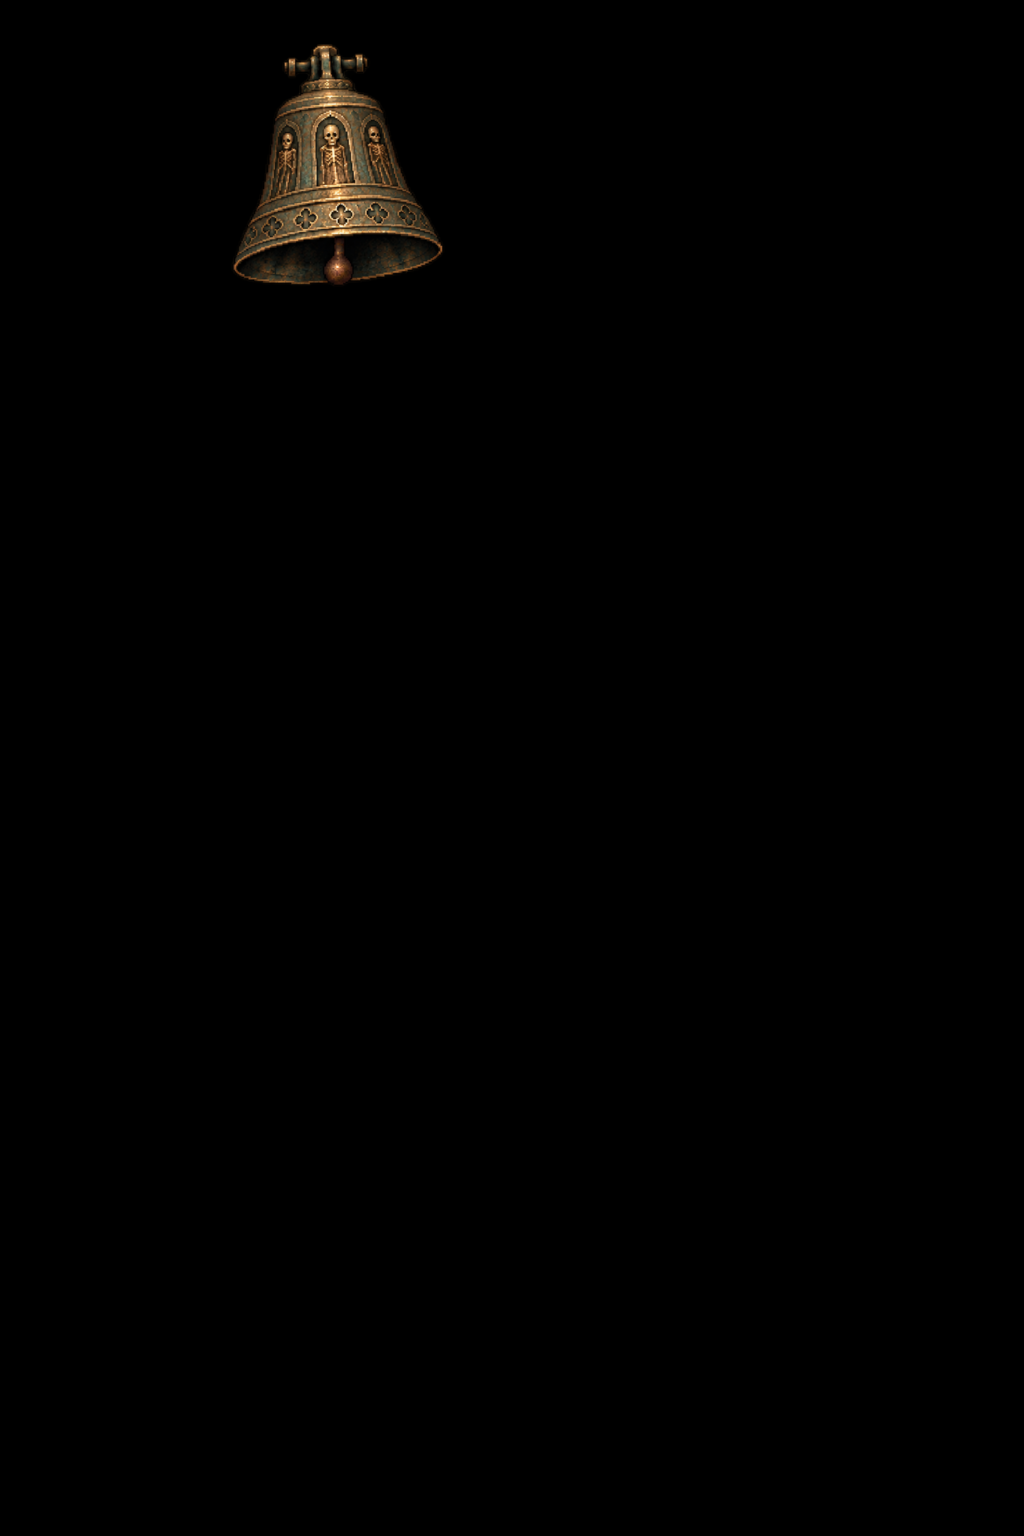
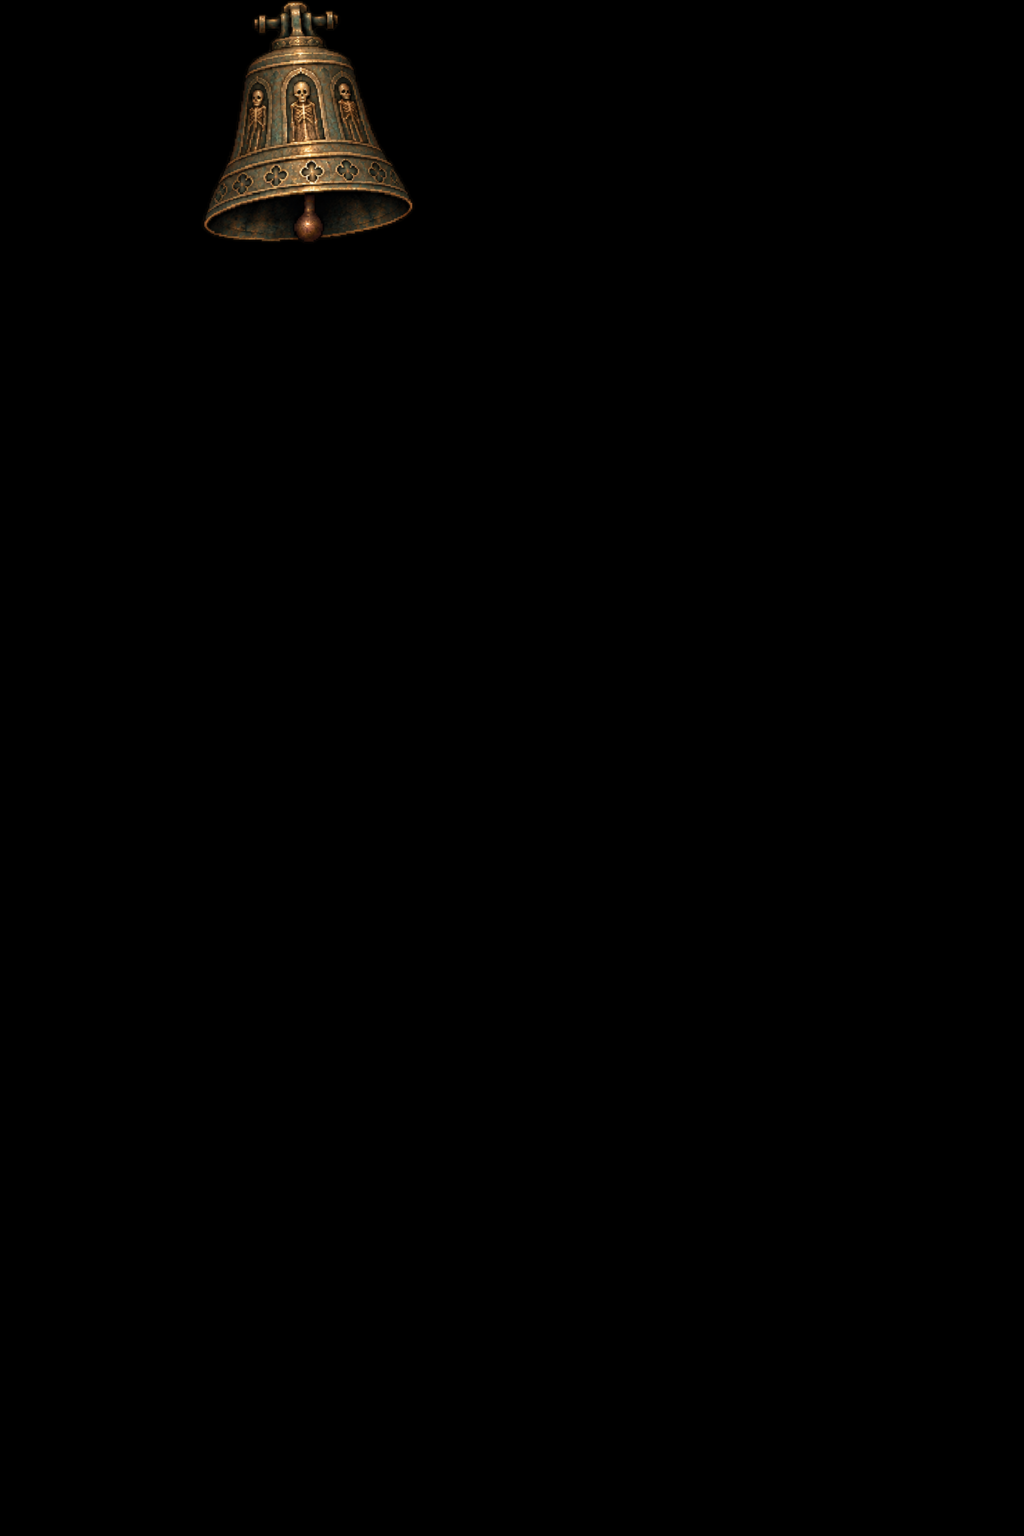
Slide the bell back left, and hang it off the top of the frame
Two placement calls I left on the reader that were mine to make.

**Left, as far as a bell that swings can go.** `at` 0.317 → 0.288. The family
is registered on the bar, so it sweeps 143px where the still bell occupies 98,
and a 390x844 phone only sees the scene from x 62: the sweep now starts at 66.
That is 21px right of the portrait's old stance rather than 35, and the rest
of the distance is the swing's, not a preference — placed where the portrait
hung, the far frame's skirt leaves the screen.

**Up, so it stops floating.** `top` 0.028 → 0. Nothing is painted above the
yoke, so a bell with sky over it hangs from nothing; seated flush, its hanger
runs off the top edge and reads as held by something the frame does not show.
A beam or a chain is still the real answer and still a plate nobody has
painted, but this is a placement solving it rather than a brush.

RING follows the bell, `{ 0.317, 0.16 }` → `{ 0.286, 0.125 }`, still on the
skirt. The brief and POLISH_PROGRESS.md carry the new numbers.

Gates: typecheck and build clean, 638 unit, 427 browser at 390x844,
`npm run sheet && npm run art` still a no-op on a clean tree.

Claude-Session: https://claude.ai/code/session_01HZF17siG5dbjtU4BF6Ch12

Changed region(s): [[0.1875, 0.0, 0.4375, 0.1875]]

diff --git a/src/content/rooms.ts b/src/content/rooms.ts
@@ -315,7 +315,7 @@ export const ROOM_TEMPLATES: Readonly<Record<string, RoomTemplate>> = {
       // that turns about its bar sweeps wider than the bell is: it is seated to
       // keep all five plates on a 320px screen, which moved it right and up.
       // `tools/sheet.mjs` prints the box these two numbers are read off.
-      { id: 'reliquary-bell', art: 'bell', at: { x: 0.317, y: 0.16 }, describe: 'Ring the ritual bell' },
+      { id: 'reliquary-bell', art: 'bell', at: { x: 0.286, y: 0.125 }, describe: 'Ring the ritual bell' },
       {
         id: 'reliquary-brazier',
         art: 'brazier',

diff --git a/POLISH_PROGRESS.md b/POLISH_PROGRESS.md
@@ -1844,13 +1844,19 @@ The delivered bell is mounted on a yoke and has no chain, so:
 - `bell-idle` is replaced. A swing in one drawing either side of a rest pose in
   another is two bells.
 - the family is **registered** and `stances.bell` is gone from `tools/art.mjs`.
-  Where it hangs is `{ width: 0.205, at: 0.317, top: 0.028 }` in
-  `tools/sheet.mjs`, read off the rest frame only.
+  Where it hangs is `{ width: 0.205, at: 0.288, top: 0 }` in `tools/sheet.mjs`,
+  read off the rest frame only.
 - **`at` is set for the swing rather than the rest pose.** Registered on the
   bar, the family sweeps 143 px where the bell standing still occupies 98, and
-  a 320 px phone only sees the scene from x 72. Placed for the rest pose alone
-  the far frame hangs 22 px off the left edge of the screen. It moved right.
-- the RING button moved with it, `{ 0.214, 0.19 }` → `{ 0.317, 0.16 }`, and is
+  a 390 × 844 phone sees the scene from x 62 — cover-fit eats the rest. Placed
+  for the rest pose alone the far frame hangs off the left edge. So it sits
+  21 px right of the portrait's stance, and that is as far left as a bell that
+  swings can go.
+- **`top` is 0**, so the hanger runs off the top of the frame rather than
+  ending in mid-air. There is no chain and no beam painted above the yoke; a
+  mount that leaves the picture is held by something the picture does not show,
+  and that is a placement answering an art problem rather than a brush.
+- the RING button moved with it, `{ 0.214, 0.19 }` → `{ 0.286, 0.125 }`, and is
   on the skirt where it was.
 - `bell-swing` and its `transform-origin` are **deleted** from `src/style.css`.
   Nothing in the stylesheet turns the bell now, and the swing moved from
@@ -1865,10 +1871,11 @@ cost — the bell is 2% of the scene either way, and there are five of it now.
 
 Reported rather than fixed, because both are the painter's call:
 
-- **there is no chain.** The old bell hung from one that left the top of the
-  frame; this one is mounted on a bar with nothing above it, so it reads as
-  fixed into the dark rather than hung from anything. A beam, or a chain, is a
-  plate nobody has painted.
+- **there is no chain, and the placement is what answers it.** The old bell
+  hung from one that left the top of the frame; this one is mounted on a bar
+  with nothing painted above it, so it is seated with its hanger running off
+  the top edge instead. That reads as held from above rather than floating, and
+  it is a compromise: a beam or a chain is a plate nobody has painted.
 - **the frames are not one drawing turned.** The overlaps above say 93–97%, and
   what the remaining few per cent look like is the ornament on the skirt
   shifting very slightly between frames. At 80 ms a frame it reads as a bell

diff --git a/docs/art-reference/masters/reliquary/BRIEF.md b/docs/art-reference/masters/reliquary/BRIEF.md
@@ -59,9 +59,11 @@ chest    { width: 0.235, at: 0.80, foot: 0.83 }
 The bell used to be here — `{ width: 0.19, at: 0.235, foot: 0.29 }` — and left
 when its swing was painted. It is registered now, and its placement lives in
 `tools/sheet.mjs` as the one number that is read off the **rest frame only**:
-`{ width: 0.205, at: 0.317, top: 0.028 }`. `at` is further right than the stance
-was, because a family registered on its bar sweeps wider than the bell standing
-still and all five plates have to stay on a 320px screen.
+`{ width: 0.205, at: 0.288, top: 0 }`. `at` is 21px further right than the
+stance was, because a family registered on its bar sweeps 143px where the still
+bell occupies 98 and all five plates have to stay on the screen; `top` is 0 so
+the hanger runs off the top of the frame, because nothing is painted above the
+yoke and a bell with sky over it floats.
 
 All three numbers are fractions of the 480 × 720 scene, read off the plate's
 **opaque box**: how wide it is, where its centre is, and where its bottom edge
@@ -81,7 +83,7 @@ fractions converted into the world box's.
 The bell is what that reads like in practice. The swing that arrived is a
 different bell from the one that hung here — a yoke and a bar where there was a
 chain — so its placement was re-set, `ROOMS.reliquary` moved the RING button
-from `{ 0.214, 0.19 }` to `{ 0.317, 0.16 }` to stay on it, and `src/style.css`
+from `{ 0.214, 0.19 }` to `{ 0.286, 0.125 }` to stay on it, and `src/style.css`
 lost the `transform-origin` it used to measure off the old stance. Nothing in
 the stylesheet turns the bell any more.
 
